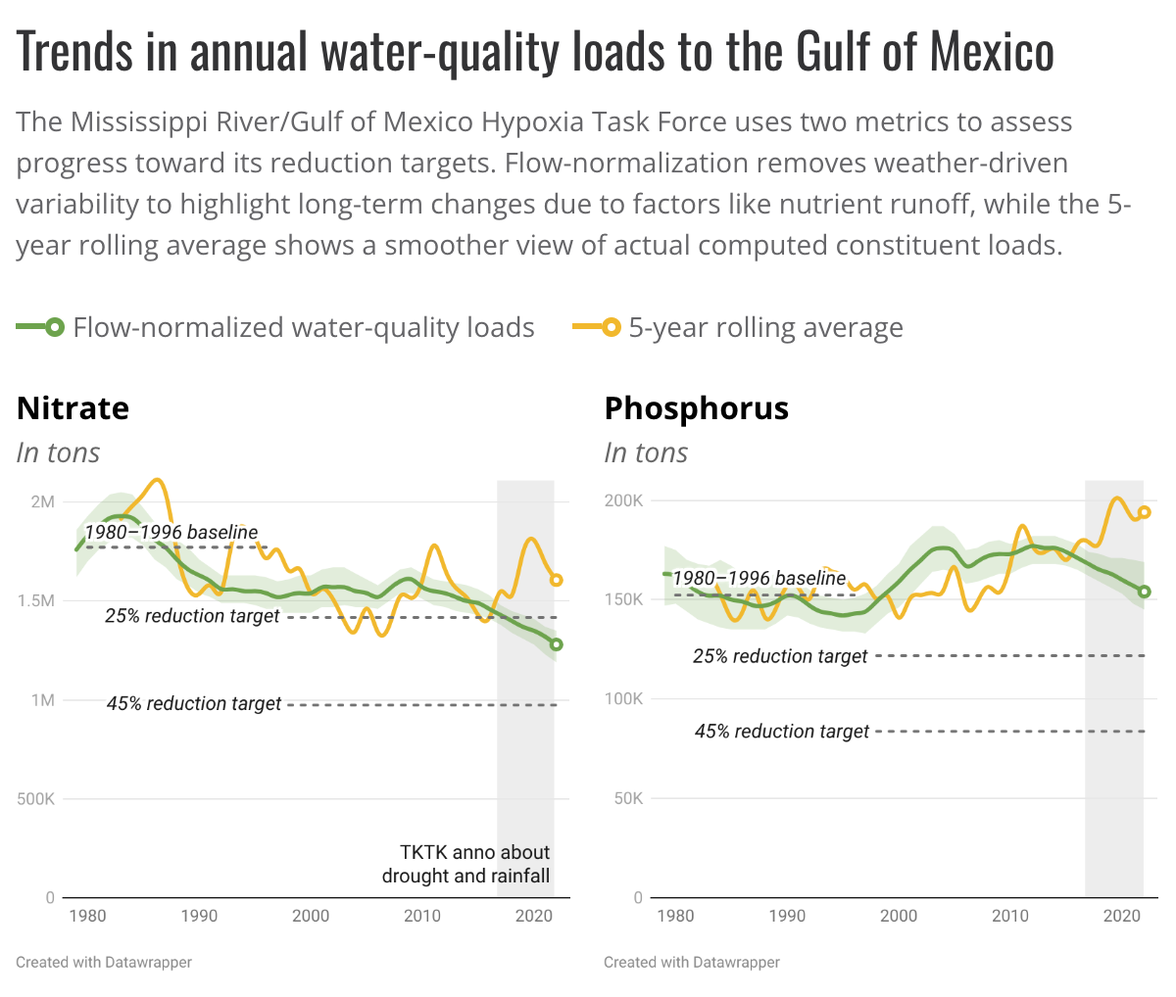
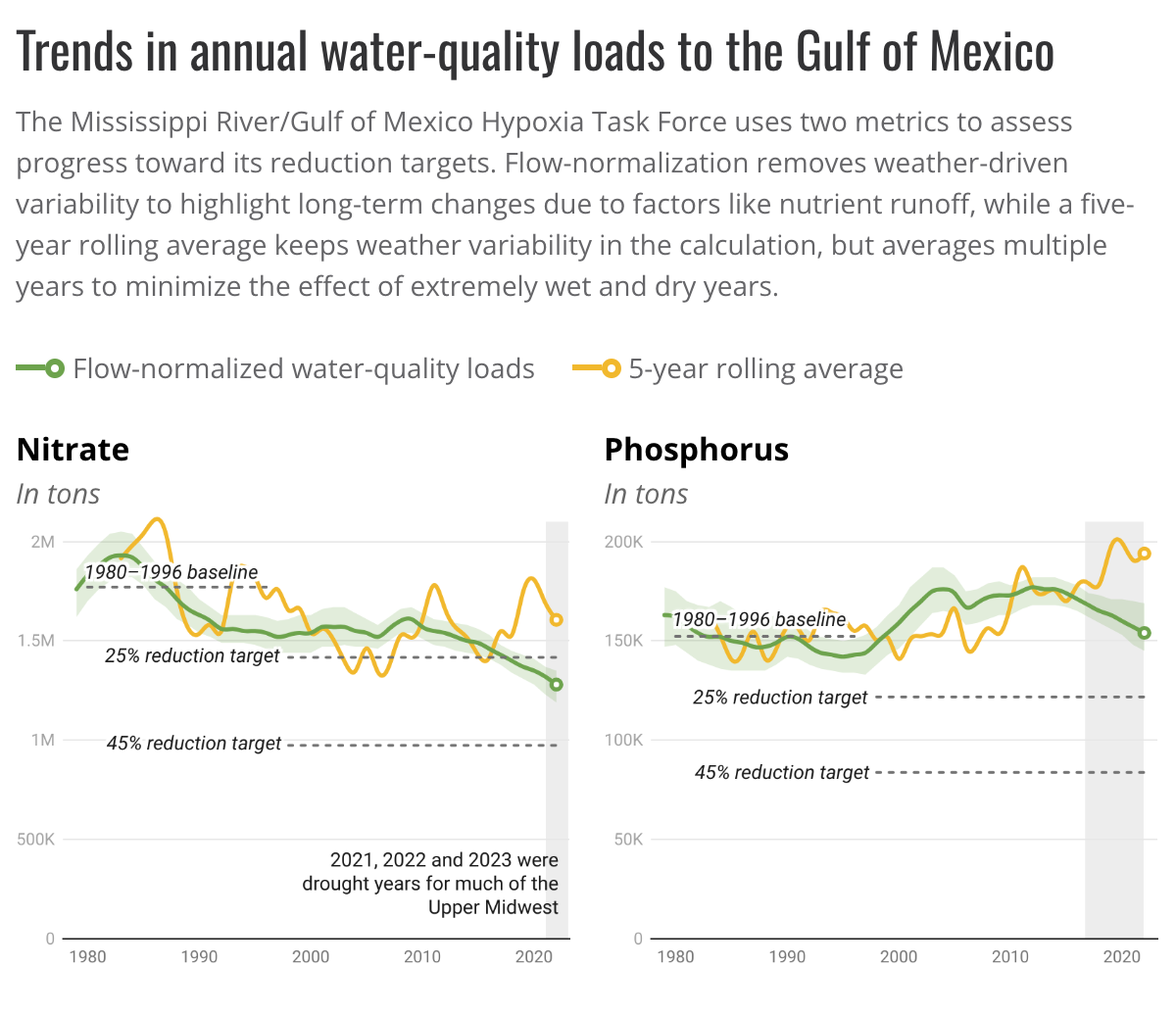
update github pages

diff --git a/docs/assets/bundle.js b/docs/assets/bundle.js
@@ -1,9 +1,10 @@
-(function(){const t=document.createElement("link").relList;if(t&&t.supports&&t.supports("modulepreload"))return;for(const r of document.querySelectorAll('link[rel="modulepreload"]'))s(r);new MutationObserver(r=>{for(const h of r)if(h.type==="childList")for(const g of h.addedNodes)g.tagName==="LINK"&&g.rel==="modulepreload"&&s(g)}).observe(document,{childList:!0,subtree:!0});function n(r){const h={};return r.integrity&&(h.integrity=r.integrity),r.referrerPolicy&&(h.referrerPolicy=r.referrerPolicy),r.crossOrigin==="use-credentials"?h.credentials="include":r.crossOrigin==="anonymous"?h.credentials="omit":h.credentials="same-origin",h}function s(r){if(r.ep)return;r.ep=!0;const h=n(r);fetch(r.href,h)}})();function x(){}function ae(e){return e()}function X(){return Object.create(null)}function R(e){e.forEach(ae)}function F(e){return typeof e=="function"}function Y(e,t){return e!=e?t==t:e!==t||e&&typeof e=="object"||typeof e=="function"}function be(e){return Object.keys(e).length===0}function oe(e,...t){if(e==null)return x;const n=e.subscribe(...t);return n.unsubscribe?()=>n.unsubscribe():n}function Q(e,t,n){e.$$.on_destroy.push(oe(t,n))}function Z(e,t,n){return e.set(n),t}const ve=typeof window<"u"?window:typeof globalThis<"u"?globalThis:global;function T(e,t){e.appendChild(t)}function D(e,t,n){e.insertBefore(t,n||null)}function L(e){e.parentNode&&e.parentNode.removeChild(e)}function C(e){return document.createElement(e)}function we(e){return document.createTextNode(e)}function S(){return we(" ")}function ye(e,t,n,s){return e.addEventListener(t,n,s),()=>e.removeEventListener(t,n,s)}function j(e,t,n){n==null?e.removeAttribute(t):e.getAttribute(t)!==n&&e.setAttribute(t,n)}function _e(e){return Array.from(e.childNodes)}let O;function k(e){O=e}function xe(){if(!O)throw new Error("Function called outside component initialization");return O}function Ie(e){xe().$$.on_mount.push(e)}const A=[],ee=[];let P=[];const te=[],Ee=Promise.resolve();let q=!1;function Te(){q||(q=!0,Ee.then(le))}function G(e){P.push(e)}const z=new Set;let M=0;function le(){if(M!==0)return;const e=O;do{try{for(;M<A.length;){const t=A[M];M++,k(t),Me(t.$$)}}catch(t){throw A.length=0,M=0,t}for(k(null),A.length=0,M=0;ee.length;)ee.pop()();for(let t=0;t<P.length;t+=1){const n=P[t];z.has(n)||(z.add(n),n())}P.length=0}while(A.length);for(;te.length;)te.pop()();q=!1,z.clear(),k(e)}function Me(e){if(e.fragment!==null){e.update(),R(e.before_update);const t=e.dirty;e.dirty=[-1],e.fragment&&e.fragment.p(e.ctx,t),e.after_update.forEach(G)}}function $e(e){const t=[],n=[];P.forEach(s=>e.indexOf(s)===-1?t.push(s):n.push(s)),n.forEach(s=>s()),P=t}const W=new Set;let Ce;function ce(e,t){e&&e.i&&(W.delete(e),e.i(t))}function je(e,t,n,s){if(e&&e.o){if(W.has(e))return;W.add(e),Ce.c.push(()=>{W.delete(e),s&&(n&&e.d(1),s())}),e.o(t)}else s&&s()}function Ae(e){e&&e.c()}function ue(e,t,n,s){const{fragment:r,after_update:h}=e.$$;r&&r.m(t,n),s||G(()=>{const g=e.$$.on_mount.map(ae).filter(F);e.$$.on_destroy?e.$$.on_destroy.push(...g):R(g),e.$$.on_mount=[]}),h.forEach(G)}function de(e,t){const n=e.$$;n.fragment!==null&&($e(n.after_update),R(n.on_destroy),n.fragment&&n.fragment.d(t),n.on_destroy=n.fragment=null,n.ctx=[])}function Pe(e,t){e.$$.dirty[0]===-1&&(A.push(e),Te(),e.$$.dirty.fill(0)),e.$$.dirty[t/31|0]|=1<<t%31}function fe(e,t,n,s,r,h,g,f=[-1]){const m=O;k(e);const c=e.$$={fragment:null,ctx:[],props:h,update:x,not_equal:r,bound:X(),on_mount:[],on_destroy:[],on_disconnect:[],before_update:[],after_update:[],context:new Map(t.context||(m?m.$$.context:[])),callbacks:X(),dirty:f,skip_bound:!1,root:t.target||m.$$.root};g&&g(c.root);let y=!1;if(c.ctx=n?n(e,t.props||{},(w,u,...o)=>{const l=o.length?o[0]:u;return c.ctx&&r(c.ctx[w],c.ctx[w]=l)&&(!c.skip_bound&&c.bound[w]&&c.bound[w](l),y&&Pe(e,w)),u}):[],c.update(),y=!0,R(c.before_update),c.fragment=s?s(c.ctx):!1,t.target){if(t.hydrate){const w=_e(t.target);c.fragment&&c.fragment.l(w),w.forEach(L)}else c.fragment&&c.fragment.c();t.intro&&ce(e.$$.fragment),ue(e,t.target,t.anchor,t.customElement),le()}k(m)}class he{$destroy(){de(this,1),this.$destroy=x}$on(t,n){if(!F(n))return x;const s=this.$$.callbacks[t]||(this.$$.callbacks[t]=[]);return s.push(n),()=>{const r=s.indexOf(n);r!==-1&&s.splice(r,1)}}$set(t){this.$$set&&!be(t)&&(this.$$.skip_bound=!0,this.$$set(t),this.$$.skip_bound=!1)}}var N=typeof globalThis<"u"?globalThis:typeof window<"u"?window:typeof global<"u"?global:typeof self<"u"?self:{};function ge(e){return e&&e.__esModule&&Object.prototype.hasOwnProperty.call(e,"default")?e.default:e}var He="Expected a function",ne=0/0,Se="[object Symbol]",ke=/^\s+|\s+$/g,Oe=/^[-+]0x[0-9a-f]+$/i,Re=/^0b[01]+$/i,Ne=/^0o[0-7]+$/i,We=parseInt,Le=typeof N=="object"&&N&&N.Object===Object&&N,Be=typeof self=="object"&&self&&self.Object===Object&&self,Fe=Le||Be||Function("return this")(),ze=Object.prototype,Ue=ze.toString,De=Math.max,qe=Math.min,U=function(){return Fe.Date.now()};function Ge(e,t,n){var s,r,h,g,f,m,c=0,y=!1,w=!1,u=!0;if(typeof e!="function")throw new TypeError(He);t=ie(t)||0,V(n)&&(y=!!n.leading,w="maxWait"in n,h=w?De(ie(n.maxWait)||0,t):h,u="trailing"in n?!!n.trailing:u);function o(b){var E=s,H=r;return s=r=void 0,c=b,g=e.apply(H,E),g}function l(b){return c=b,f=setTimeout(a,t),y?o(b):g}function p(b){var E=b-m,H=b-c,K=t-E;return w?qe(K,h-H):K}function i(b){var E=b-m,H=b-c;return m===void 0||E>=t||E<0||w&&H>=h}function a(){var b=U();if(i(b))return d(b);f=setTimeout(a,p(b))}function d(b){return f=void 0,u&&s?o(b):(s=r=void 0,g)}function v(){f!==void 0&&clearTimeout(f),c=0,s=m=r=f=void 0}function _(){return f===void 0?g:d(U())}function I(){var b=U(),E=i(b);if(s=arguments,r=this,m=b,E){if(f===void 0)return l(m);if(w)return f=setTimeout(a,t),o(m)}return f===void 0&&(f=setTimeout(a,t)),g}return I.cancel=v,I.flush=_,I}function V(e){var t=typeof e;return!!e&&(t=="object"||t=="function")}function Ve(e){return!!e&&typeof e=="object"}function Ye(e){return typeof e=="symbol"||Ve(e)&&Ue.call(e)==Se}function ie(e){if(typeof e=="number")return e;if(Ye(e))return ne;if(V(e)){var t=typeof e.valueOf=="function"?e.valueOf():e;e=V(t)?t+"":t}if(typeof e!="string")return e===0?e:+e;e=e.replace(ke,"");var n=Re.test(e);return n||Ne.test(e)?We(e.slice(2),n?2:8):Oe.test(e)?ne:+e}var Je=Ge;const se=ge(Je),$=[];function Ke(e,t){return{subscribe:J(e,t).subscribe}}function J(e,t=x){let n;const s=new Set;function r(f){if(Y(e,f)&&(e=f,n)){const m=!$.length;for(const c of s)c[1](),$.push(c,e);if(m){for(let c=0;c<$.length;c+=2)$[c][0]($[c+1]);$.length=0}}}function h(f){r(f(e))}function g(f,m=x){const c=[f,m];return s.add(c),s.size===1&&(n=t(r)||x),f(e),()=>{s.delete(c),s.size===0&&n&&(n(),n=null)}}return{set:r,update:h,subscribe:g}}function me(e,t,n){const s=!Array.isArray(e),r=s?[e]:e,h=t.length<2;return Ke(n,g=>{let f=!1;const m=[];let c=0,y=x;const w=()=>{if(c)return;y();const o=t(s?m[0]:m,g);h?g(o):y=F(o)?o:x},u=r.map((o,l)=>oe(o,p=>{m[l]=p,c&=~(1<<l),f&&w()},()=>{c|=1<<l}));return f=!0,w(),function(){R(u),y(),f=!1}})}const B=J(window.innerWidth),re=J(window.innerHeight);me(B,e=>e<=560);me(B,e=>e>1200);const{window:Xe}=ve;function Qe(e){let t,n;return{c:x,m(s,r){t||(n=ye(Xe,"resize",function(){F(se(e[1],e[0]))&&se(e[1],e[0]).apply(this,arguments)}),t=!0)},p(s,[r]){e=s},i:x,o:x,d(s){t=!1,n()}}}function Ze(e,t,n){let s,r;Q(e,re,f=>n(2,s=f)),Q(e,B,f=>n(3,r=f));let{debounceDur:h=100}=t;const g=()=>{Z(B,r=window.innerWidth,r),Z(re,s=window.innerHeight,s)};return Ie(()=>{g()}),e.$$set=f=>{"debounceDur"in f&&n(0,h=f.debounceDur)},[h,g]}class et extends he{constructor(t){super(),fe(this,t,Ze,Qe,Y,{debounceDur:0})}}var pe={exports:{}};/*! pym.js - v1.3.2 - 2018-02-13 */(function(e){(function(t){e.exports?e.exports=t():window.pym=t.call(this)})(function(){var t="xPYMx",n={},s=function(u){var o=document.createEvent("Event");o.initEvent("pym:"+u,!0,!0),document.dispatchEvent(o)},r=function(u){var o=new RegExp("[\\?&]"+u.replace(/[\[]/,"\\[").replace(/[\]]/,"\\]")+"=([^&#]*)"),l=o.exec(location.search);return l===null?"":decodeURIComponent(l[1].replace(/\+/g," "))},h=function(u,o){if(!(o.xdomain!=="*"&&!u.origin.match(new RegExp(o.xdomain+"$")))&&typeof u.data=="string")return!0},g=function(u){var o=/^(?:(?:https?|mailto|ftp):|[^&:/?#]*(?:[/?#]|$))/gi;if(u.match(o))return!0},f=function(u,o,l){var p=["pym",u,o,l];return p.join(t)},m=function(u){var o=["pym",u,"(\\S+)","(.*)"];return new RegExp("^"+o.join(t)+"$")},c=Date.now||function(){return new Date().getTime()},y=function(u,o,l){var p,i,a,d=null,v=0;l||(l={});var _=function(){v=l.leading===!1?0:c(),d=null,a=u.apply(p,i),d||(p=i=null)};return function(){var I=c();!v&&l.leading===!1&&(v=I);var b=o-(I-v);return p=this,i=arguments,b<=0||b>o?(d&&(clearTimeout(d),d=null),v=I,a=u.apply(p,i),d||(p=i=null)):!d&&l.trailing!==!1&&(d=setTimeout(_,b)),a}},w=function(){for(var u=n.autoInitInstances.length,o=u-1;o>=0;o--){var l=n.autoInitInstances[o];l.el.getElementsByTagName("iframe").length&&l.el.getElementsByTagName("iframe")[0].contentWindow||n.autoInitInstances.splice(o,1)}};return n.autoInitInstances=[],n.autoInit=function(u){var o=document.querySelectorAll("[data-pym-src]:not([data-pym-auto-initialized])"),l=o.length;w();for(var p=0;p<l;++p){var i=o[p];i.setAttribute("data-pym-auto-initialized",""),i.id===""&&(i.id="pym-"+p+"-"+Math.random().toString(36).substr(2,5));var a=i.getAttribute("data-pym-src"),d={xdomain:"string",title:"string",name:"string",id:"string",sandbox:"string",allowfullscreen:"boolean",parenturlparam:"string",parenturlvalue:"string",optionalparams:"boolean",trackscroll:"boolean",scrollwait:"number"},v={};for(var _ in d)if(i.getAttribute("data-pym-"+_)!==null)switch(d[_]){case"boolean":v[_]=i.getAttribute("data-pym-"+_)!=="false";break;case"string":v[_]=i.getAttribute("data-pym-"+_);break;case"number":var I=Number(i.getAttribute("data-pym-"+_));isNaN(I)||(v[_]=I);break;default:console.err("unrecognized attribute type")}var b=new n.Parent(i.id,a,v);n.autoInitInstances.push(b)}return u||s("pym-initialized"),n.autoInitInstances},n.Parent=function(u,o,l){this.id=u,this.url=o,this.el=document.getElementById(u),this.iframe=null,this.settings={xdomain:"*",optionalparams:!0,parenturlparam:"parentUrl",parenturlvalue:window.location.href,trackscroll:!1,scrollwait:100},this.messageRegex=m(this.id),this.messageHandlers={},l=l||{},this._constructIframe=function(){var i=this.el.offsetWidth.toString();this.iframe=document.createElement("iframe");var a="",d=this.url.indexOf("#");for(d>-1&&(a=this.url.substring(d,this.url.length),this.url=this.url.substring(0,d)),this.url.indexOf("?")<0?this.url+="?":this.url+="&",this.iframe.src=this.url+"initialWidth="+i+"&childId="+this.id,this.settings.optionalparams&&(this.iframe.src+="&parentTitle="+encodeURIComponent(document.title),this.iframe.src+="&"+this.settings.parenturlparam+"="+encodeURIComponent(this.settings.parenturlvalue)),this.iframe.src+=a,this.iframe.setAttribute("width","100%"),this.iframe.setAttribute("scrolling","no"),this.iframe.setAttribute("marginheight","0"),this.iframe.setAttribute("frameborder","0"),this.settings.title&&this.iframe.setAttribute("title",this.settings.title),this.settings.allowfullscreen!==void 0&&this.settings.allowfullscreen!==!1&&this.iframe.setAttribute("allowfullscreen",""),this.settings.sandbox!==void 0&&typeof this.settings.sandbox=="string"&&this.iframe.setAttribute("sandbox",this.settings.sandbox),this.settings.id&&(document.getElementById(this.settings.id)||this.iframe.setAttribute("id",this.settings.id)),this.settings.name&&this.iframe.setAttribute("name",this.settings.name);this.el.firstChild;)this.el.removeChild(this.el.firstChild);this.el.appendChild(this.iframe),window.addEventListener("resize",this._onResize),this.settings.trackscroll&&window.addEventListener("scroll",this._throttleOnScroll)},this._onResize=(function(){this.sendWidth(),this.settings.trackscroll&&this.sendViewportAndIFramePosition()}).bind(this),this._onScroll=(function(){this.sendViewportAndIFramePosition()}).bind(this),this._fire=function(i,a){if(i in this.messageHandlers)for(var d=0;d<this.messageHandlers[i].length;d++)this.messageHandlers[i][d].call(this,a)},this.remove=function(){window.removeEventListener("message",this._processMessage),window.removeEventListener("resize",this._onResize),this.el.removeChild(this.iframe),w()},this._processMessage=(function(i){if(h(i,this.settings)&&typeof i.data=="string"){var a=i.data.match(this.messageRegex);if(!a||a.length!==3)return!1;var d=a[1],v=a[2];this._fire(d,v)}}).bind(this),this._onHeightMessage=function(i){var a=parseInt(i);this.iframe.setAttribute("height",a+"px")},this._onNavigateToMessage=function(i){g(i)&&(document.location.href=i)},this._onScrollToChildPosMessage=function(i){var a=document.getElementById(this.id).getBoundingClientRect().top+window.pageYOffset,d=a+parseInt(i);window.scrollTo(0,d)},this.onMessage=function(i,a){i in this.messageHandlers||(this.messageHandlers[i]=[]),this.messageHandlers[i].push(a)},this.sendMessage=function(i,a){this.el.getElementsByTagName("iframe").length&&(this.el.getElementsByTagName("iframe")[0].contentWindow?this.el.getElementsByTagName("iframe")[0].contentWindow.postMessage(f(this.id,i,a),"*"):this.remove())},this.sendWidth=function(){var i=this.el.offsetWidth.toString();this.sendMessage("width",i)},this.sendViewportAndIFramePosition=function(){var i=this.iframe.getBoundingClientRect(),a=window.innerWidth||document.documentElement.clientWidth,d=window.innerHeight||document.documentElement.clientHeight,v=a+" "+d;v+=" "+i.top+" "+i.left,v+=" "+i.bottom+" "+i.right,this.sendMessage("viewport-iframe-position",v)};for(var p in l)this.settings[p]=l[p];return this._throttleOnScroll=y(this._onScroll.bind(this),this.settings.scrollwait),this.onMessage("height",this._onHeightMessage),this.onMessage("navigateTo",this._onNavigateToMessage),this.onMessage("scrollToChildPos",this._onScrollToChildPosMessage),this.onMessage("parentPositionInfo",this.sendViewportAndIFramePosition),window.addEventListener("message",this._processMessage,!1),this._constructIframe(),this},n.Child=function(u){this.parentWidth=null,this.id=null,this.parentTitle=null,this.parentUrl=null,this.settings={renderCallback:null,xdomain:"*",polling:0,parenturlparam:"parentUrl"},this.timerId=null,this.messageRegex=null,this.messageHandlers={},u=u||{},this.onMessage=function(i,a){i in this.messageHandlers||(this.messageHandlers[i]=[]),this.messageHandlers[i].push(a)},this._fire=function(i,a){if(i in this.messageHandlers)for(var d=0;d<this.messageHandlers[i].length;d++)this.messageHandlers[i][d].call(this,a)},this._processMessage=(function(i){if(h(i,this.settings)&&typeof i.data=="string"){var a=i.data.match(this.messageRegex);if(!(!a||a.length!==3)){var d=a[1],v=a[2];this._fire(d,v)}}}).bind(this),this._onWidthMessage=function(i){var a=parseInt(i);a!==this.parentWidth&&(this.parentWidth=a,this.settings.renderCallback&&this.settings.renderCallback(a),this.sendHeight())},this.sendMessage=function(i,a){window.parent.postMessage(f(this.id,i,a),"*")},this.sendHeight=(function(){var i=document.getElementsByTagName("body")[0].offsetHeight.toString();return this.sendMessage("height",i),i}).bind(this),this.getParentPositionInfo=function(){this.sendMessage("parentPositionInfo")},this.scrollParentTo=function(i){this.sendMessage("navigateTo","#"+i)},this.navigateParentTo=function(i){this.sendMessage("navigateTo",i)},this.scrollParentToChildEl=function(i){var a=document.getElementById(i).getBoundingClientRect().top+window.pageYOffset;this.scrollParentToChildPos(a)},this.scrollParentToChildPos=function(i){this.sendMessage("scrollToChildPos",i.toString())};var o=function(i){var a=document.getElementsByTagName("html")[0],d,v=a.className;try{window.self!==window.top?d="embedded":d="not-embedded"}catch{d="embedded"}v.indexOf(d)<0&&(a.className=v?v+" "+d:d,i&&i(d),s("marked-embedded"))};this.remove=function(){window.removeEventListener("message",this._processMessage),this.timerId&&clearInterval(this.timerId)};for(var l in u)this.settings[l]=u[l];this.id=r("childId")||u.id,this.messageRegex=new RegExp("^pym"+t+this.id+t+"(\\S+)"+t+"(.*)$");var p=parseInt(r("initialWidth"));return this.parentUrl=r(this.settings.parenturlparam),this.parentTitle=r("parentTitle"),this.onMessage("width",this._onWidthMessage),window.addEventListener("message",this._processMessage,!1),this.settings.renderCallback&&this.settings.renderCallback(p),this.sendHeight(),this.settings.polling&&(this.timerId=window.setInterval(this.sendHeight,this.settings.polling)),o(u.onMarkedEmbeddedStatus),this},typeof document<"u"&&n.autoInit(!0),n})})(pe);var tt=pe.exports;const nt=ge(tt);function it(e){let t;return{c(){t=C("div"),t.innerHTML=`Data: <a target="_blank" href="https://nrtwq.usgs.gov/nwqn/#/GULF">USGS</a>; Graphic by Jared Whalen /
-      <a target="_blank" href="https://agwaterdesk.org/">Ag &amp; Water Desk</a>`,j(t,"class","credit")},m(n,s){D(n,t,s)},d(n){n&&L(t)}}}function st(e){let t,n,s,r,h,g,f,m,c,y,w,u;t=new et({});let o=e[0]&&it();return{c(){Ae(t.$$.fragment),n=S(),s=C("div"),r=C("h1"),r.textContent="Trends in annual water-quality loads to the Gulf of Mexico",h=S(),g=C("p"),g.innerHTML=`The Mississippi River/Gulf of Mexico Hypoxia Task Force uses two metrics to
+(function(){const t=document.createElement("link").relList;if(t&&t.supports&&t.supports("modulepreload"))return;for(const r of document.querySelectorAll('link[rel="modulepreload"]'))s(r);new MutationObserver(r=>{for(const h of r)if(h.type==="childList")for(const g of h.addedNodes)g.tagName==="LINK"&&g.rel==="modulepreload"&&s(g)}).observe(document,{childList:!0,subtree:!0});function n(r){const h={};return r.integrity&&(h.integrity=r.integrity),r.referrerPolicy&&(h.referrerPolicy=r.referrerPolicy),r.crossOrigin==="use-credentials"?h.credentials="include":r.crossOrigin==="anonymous"?h.credentials="omit":h.credentials="same-origin",h}function s(r){if(r.ep)return;r.ep=!0;const h=n(r);fetch(r.href,h)}})();function x(){}function ae(e){return e()}function X(){return Object.create(null)}function R(e){e.forEach(ae)}function z(e){return typeof e=="function"}function Y(e,t){return e!=e?t==t:e!==t||e&&typeof e=="object"||typeof e=="function"}function be(e){return Object.keys(e).length===0}function oe(e,...t){if(e==null)return x;const n=e.subscribe(...t);return n.unsubscribe?()=>n.unsubscribe():n}function Q(e,t,n){e.$$.on_destroy.push(oe(t,n))}function Z(e,t,n){return e.set(n),t}const ve=typeof window<"u"?window:typeof globalThis<"u"?globalThis:global;function T(e,t){e.appendChild(t)}function D(e,t,n){e.insertBefore(t,n||null)}function L(e){e.parentNode&&e.parentNode.removeChild(e)}function C(e){return document.createElement(e)}function we(e){return document.createTextNode(e)}function H(){return we(" ")}function ye(e,t,n,s){return e.addEventListener(t,n,s),()=>e.removeEventListener(t,n,s)}function j(e,t,n){n==null?e.removeAttribute(t):e.getAttribute(t)!==n&&e.setAttribute(t,n)}function _e(e){return Array.from(e.childNodes)}let O;function S(e){O=e}function xe(){if(!O)throw new Error("Function called outside component initialization");return O}function Ie(e){xe().$$.on_mount.push(e)}const A=[],ee=[];let P=[];const te=[],Ee=Promise.resolve();let q=!1;function Te(){q||(q=!0,Ee.then(le))}function G(e){P.push(e)}const F=new Set;let M=0;function le(){if(M!==0)return;const e=O;do{try{for(;M<A.length;){const t=A[M];M++,S(t),Me(t.$$)}}catch(t){throw A.length=0,M=0,t}for(S(null),A.length=0,M=0;ee.length;)ee.pop()();for(let t=0;t<P.length;t+=1){const n=P[t];F.has(n)||(F.add(n),n())}P.length=0}while(A.length);for(;te.length;)te.pop()();q=!1,F.clear(),S(e)}function Me(e){if(e.fragment!==null){e.update(),R(e.before_update);const t=e.dirty;e.dirty=[-1],e.fragment&&e.fragment.p(e.ctx,t),e.after_update.forEach(G)}}function $e(e){const t=[],n=[];P.forEach(s=>e.indexOf(s)===-1?t.push(s):n.push(s)),n.forEach(s=>s()),P=t}const W=new Set;let Ce;function ce(e,t){e&&e.i&&(W.delete(e),e.i(t))}function je(e,t,n,s){if(e&&e.o){if(W.has(e))return;W.add(e),Ce.c.push(()=>{W.delete(e),s&&(n&&e.d(1),s())}),e.o(t)}else s&&s()}function Ae(e){e&&e.c()}function ue(e,t,n,s){const{fragment:r,after_update:h}=e.$$;r&&r.m(t,n),s||G(()=>{const g=e.$$.on_mount.map(ae).filter(z);e.$$.on_destroy?e.$$.on_destroy.push(...g):R(g),e.$$.on_mount=[]}),h.forEach(G)}function de(e,t){const n=e.$$;n.fragment!==null&&($e(n.after_update),R(n.on_destroy),n.fragment&&n.fragment.d(t),n.on_destroy=n.fragment=null,n.ctx=[])}function Pe(e,t){e.$$.dirty[0]===-1&&(A.push(e),Te(),e.$$.dirty.fill(0)),e.$$.dirty[t/31|0]|=1<<t%31}function fe(e,t,n,s,r,h,g,f=[-1]){const m=O;S(e);const c=e.$$={fragment:null,ctx:[],props:h,update:x,not_equal:r,bound:X(),on_mount:[],on_destroy:[],on_disconnect:[],before_update:[],after_update:[],context:new Map(t.context||(m?m.$$.context:[])),callbacks:X(),dirty:f,skip_bound:!1,root:t.target||m.$$.root};g&&g(c.root);let y=!1;if(c.ctx=n?n(e,t.props||{},(w,u,...o)=>{const l=o.length?o[0]:u;return c.ctx&&r(c.ctx[w],c.ctx[w]=l)&&(!c.skip_bound&&c.bound[w]&&c.bound[w](l),y&&Pe(e,w)),u}):[],c.update(),y=!0,R(c.before_update),c.fragment=s?s(c.ctx):!1,t.target){if(t.hydrate){const w=_e(t.target);c.fragment&&c.fragment.l(w),w.forEach(L)}else c.fragment&&c.fragment.c();t.intro&&ce(e.$$.fragment),ue(e,t.target,t.anchor,t.customElement),le()}S(m)}class he{$destroy(){de(this,1),this.$destroy=x}$on(t,n){if(!z(n))return x;const s=this.$$.callbacks[t]||(this.$$.callbacks[t]=[]);return s.push(n),()=>{const r=s.indexOf(n);r!==-1&&s.splice(r,1)}}$set(t){this.$$set&&!be(t)&&(this.$$.skip_bound=!0,this.$$set(t),this.$$.skip_bound=!1)}}var N=typeof globalThis<"u"?globalThis:typeof window<"u"?window:typeof global<"u"?global:typeof self<"u"?self:{};function ge(e){return e&&e.__esModule&&Object.prototype.hasOwnProperty.call(e,"default")?e.default:e}var ke="Expected a function",ne=0/0,He="[object Symbol]",Se=/^\s+|\s+$/g,Oe=/^[-+]0x[0-9a-f]+$/i,Re=/^0b[01]+$/i,Ne=/^0o[0-7]+$/i,We=parseInt,Le=typeof N=="object"&&N&&N.Object===Object&&N,Be=typeof self=="object"&&self&&self.Object===Object&&self,ze=Le||Be||Function("return this")(),Fe=Object.prototype,Ue=Fe.toString,De=Math.max,qe=Math.min,U=function(){return ze.Date.now()};function Ge(e,t,n){var s,r,h,g,f,m,c=0,y=!1,w=!1,u=!0;if(typeof e!="function")throw new TypeError(ke);t=ie(t)||0,V(n)&&(y=!!n.leading,w="maxWait"in n,h=w?De(ie(n.maxWait)||0,t):h,u="trailing"in n?!!n.trailing:u);function o(b){var E=s,k=r;return s=r=void 0,c=b,g=e.apply(k,E),g}function l(b){return c=b,f=setTimeout(a,t),y?o(b):g}function p(b){var E=b-m,k=b-c,K=t-E;return w?qe(K,h-k):K}function i(b){var E=b-m,k=b-c;return m===void 0||E>=t||E<0||w&&k>=h}function a(){var b=U();if(i(b))return d(b);f=setTimeout(a,p(b))}function d(b){return f=void 0,u&&s?o(b):(s=r=void 0,g)}function v(){f!==void 0&&clearTimeout(f),c=0,s=m=r=f=void 0}function _(){return f===void 0?g:d(U())}function I(){var b=U(),E=i(b);if(s=arguments,r=this,m=b,E){if(f===void 0)return l(m);if(w)return f=setTimeout(a,t),o(m)}return f===void 0&&(f=setTimeout(a,t)),g}return I.cancel=v,I.flush=_,I}function V(e){var t=typeof e;return!!e&&(t=="object"||t=="function")}function Ve(e){return!!e&&typeof e=="object"}function Ye(e){return typeof e=="symbol"||Ve(e)&&Ue.call(e)==He}function ie(e){if(typeof e=="number")return e;if(Ye(e))return ne;if(V(e)){var t=typeof e.valueOf=="function"?e.valueOf():e;e=V(t)?t+"":t}if(typeof e!="string")return e===0?e:+e;e=e.replace(Se,"");var n=Re.test(e);return n||Ne.test(e)?We(e.slice(2),n?2:8):Oe.test(e)?ne:+e}var Je=Ge;const se=ge(Je),$=[];function Ke(e,t){return{subscribe:J(e,t).subscribe}}function J(e,t=x){let n;const s=new Set;function r(f){if(Y(e,f)&&(e=f,n)){const m=!$.length;for(const c of s)c[1](),$.push(c,e);if(m){for(let c=0;c<$.length;c+=2)$[c][0]($[c+1]);$.length=0}}}function h(f){r(f(e))}function g(f,m=x){const c=[f,m];return s.add(c),s.size===1&&(n=t(r)||x),f(e),()=>{s.delete(c),s.size===0&&n&&(n(),n=null)}}return{set:r,update:h,subscribe:g}}function me(e,t,n){const s=!Array.isArray(e),r=s?[e]:e,h=t.length<2;return Ke(n,g=>{let f=!1;const m=[];let c=0,y=x;const w=()=>{if(c)return;y();const o=t(s?m[0]:m,g);h?g(o):y=z(o)?o:x},u=r.map((o,l)=>oe(o,p=>{m[l]=p,c&=~(1<<l),f&&w()},()=>{c|=1<<l}));return f=!0,w(),function(){R(u),y(),f=!1}})}const B=J(window.innerWidth),re=J(window.innerHeight);me(B,e=>e<=560);me(B,e=>e>1200);const{window:Xe}=ve;function Qe(e){let t,n;return{c:x,m(s,r){t||(n=ye(Xe,"resize",function(){z(se(e[1],e[0]))&&se(e[1],e[0]).apply(this,arguments)}),t=!0)},p(s,[r]){e=s},i:x,o:x,d(s){t=!1,n()}}}function Ze(e,t,n){let s,r;Q(e,re,f=>n(2,s=f)),Q(e,B,f=>n(3,r=f));let{debounceDur:h=100}=t;const g=()=>{Z(B,r=window.innerWidth,r),Z(re,s=window.innerHeight,s)};return Ie(()=>{g()}),e.$$set=f=>{"debounceDur"in f&&n(0,h=f.debounceDur)},[h,g]}class et extends he{constructor(t){super(),fe(this,t,Ze,Qe,Y,{debounceDur:0})}}var pe={exports:{}};/*! pym.js - v1.3.2 - 2018-02-13 */(function(e){(function(t){e.exports?e.exports=t():window.pym=t.call(this)})(function(){var t="xPYMx",n={},s=function(u){var o=document.createEvent("Event");o.initEvent("pym:"+u,!0,!0),document.dispatchEvent(o)},r=function(u){var o=new RegExp("[\\?&]"+u.replace(/[\[]/,"\\[").replace(/[\]]/,"\\]")+"=([^&#]*)"),l=o.exec(location.search);return l===null?"":decodeURIComponent(l[1].replace(/\+/g," "))},h=function(u,o){if(!(o.xdomain!=="*"&&!u.origin.match(new RegExp(o.xdomain+"$")))&&typeof u.data=="string")return!0},g=function(u){var o=/^(?:(?:https?|mailto|ftp):|[^&:/?#]*(?:[/?#]|$))/gi;if(u.match(o))return!0},f=function(u,o,l){var p=["pym",u,o,l];return p.join(t)},m=function(u){var o=["pym",u,"(\\S+)","(.*)"];return new RegExp("^"+o.join(t)+"$")},c=Date.now||function(){return new Date().getTime()},y=function(u,o,l){var p,i,a,d=null,v=0;l||(l={});var _=function(){v=l.leading===!1?0:c(),d=null,a=u.apply(p,i),d||(p=i=null)};return function(){var I=c();!v&&l.leading===!1&&(v=I);var b=o-(I-v);return p=this,i=arguments,b<=0||b>o?(d&&(clearTimeout(d),d=null),v=I,a=u.apply(p,i),d||(p=i=null)):!d&&l.trailing!==!1&&(d=setTimeout(_,b)),a}},w=function(){for(var u=n.autoInitInstances.length,o=u-1;o>=0;o--){var l=n.autoInitInstances[o];l.el.getElementsByTagName("iframe").length&&l.el.getElementsByTagName("iframe")[0].contentWindow||n.autoInitInstances.splice(o,1)}};return n.autoInitInstances=[],n.autoInit=function(u){var o=document.querySelectorAll("[data-pym-src]:not([data-pym-auto-initialized])"),l=o.length;w();for(var p=0;p<l;++p){var i=o[p];i.setAttribute("data-pym-auto-initialized",""),i.id===""&&(i.id="pym-"+p+"-"+Math.random().toString(36).substr(2,5));var a=i.getAttribute("data-pym-src"),d={xdomain:"string",title:"string",name:"string",id:"string",sandbox:"string",allowfullscreen:"boolean",parenturlparam:"string",parenturlvalue:"string",optionalparams:"boolean",trackscroll:"boolean",scrollwait:"number"},v={};for(var _ in d)if(i.getAttribute("data-pym-"+_)!==null)switch(d[_]){case"boolean":v[_]=i.getAttribute("data-pym-"+_)!=="false";break;case"string":v[_]=i.getAttribute("data-pym-"+_);break;case"number":var I=Number(i.getAttribute("data-pym-"+_));isNaN(I)||(v[_]=I);break;default:console.err("unrecognized attribute type")}var b=new n.Parent(i.id,a,v);n.autoInitInstances.push(b)}return u||s("pym-initialized"),n.autoInitInstances},n.Parent=function(u,o,l){this.id=u,this.url=o,this.el=document.getElementById(u),this.iframe=null,this.settings={xdomain:"*",optionalparams:!0,parenturlparam:"parentUrl",parenturlvalue:window.location.href,trackscroll:!1,scrollwait:100},this.messageRegex=m(this.id),this.messageHandlers={},l=l||{},this._constructIframe=function(){var i=this.el.offsetWidth.toString();this.iframe=document.createElement("iframe");var a="",d=this.url.indexOf("#");for(d>-1&&(a=this.url.substring(d,this.url.length),this.url=this.url.substring(0,d)),this.url.indexOf("?")<0?this.url+="?":this.url+="&",this.iframe.src=this.url+"initialWidth="+i+"&childId="+this.id,this.settings.optionalparams&&(this.iframe.src+="&parentTitle="+encodeURIComponent(document.title),this.iframe.src+="&"+this.settings.parenturlparam+"="+encodeURIComponent(this.settings.parenturlvalue)),this.iframe.src+=a,this.iframe.setAttribute("width","100%"),this.iframe.setAttribute("scrolling","no"),this.iframe.setAttribute("marginheight","0"),this.iframe.setAttribute("frameborder","0"),this.settings.title&&this.iframe.setAttribute("title",this.settings.title),this.settings.allowfullscreen!==void 0&&this.settings.allowfullscreen!==!1&&this.iframe.setAttribute("allowfullscreen",""),this.settings.sandbox!==void 0&&typeof this.settings.sandbox=="string"&&this.iframe.setAttribute("sandbox",this.settings.sandbox),this.settings.id&&(document.getElementById(this.settings.id)||this.iframe.setAttribute("id",this.settings.id)),this.settings.name&&this.iframe.setAttribute("name",this.settings.name);this.el.firstChild;)this.el.removeChild(this.el.firstChild);this.el.appendChild(this.iframe),window.addEventListener("resize",this._onResize),this.settings.trackscroll&&window.addEventListener("scroll",this._throttleOnScroll)},this._onResize=(function(){this.sendWidth(),this.settings.trackscroll&&this.sendViewportAndIFramePosition()}).bind(this),this._onScroll=(function(){this.sendViewportAndIFramePosition()}).bind(this),this._fire=function(i,a){if(i in this.messageHandlers)for(var d=0;d<this.messageHandlers[i].length;d++)this.messageHandlers[i][d].call(this,a)},this.remove=function(){window.removeEventListener("message",this._processMessage),window.removeEventListener("resize",this._onResize),this.el.removeChild(this.iframe),w()},this._processMessage=(function(i){if(h(i,this.settings)&&typeof i.data=="string"){var a=i.data.match(this.messageRegex);if(!a||a.length!==3)return!1;var d=a[1],v=a[2];this._fire(d,v)}}).bind(this),this._onHeightMessage=function(i){var a=parseInt(i);this.iframe.setAttribute("height",a+"px")},this._onNavigateToMessage=function(i){g(i)&&(document.location.href=i)},this._onScrollToChildPosMessage=function(i){var a=document.getElementById(this.id).getBoundingClientRect().top+window.pageYOffset,d=a+parseInt(i);window.scrollTo(0,d)},this.onMessage=function(i,a){i in this.messageHandlers||(this.messageHandlers[i]=[]),this.messageHandlers[i].push(a)},this.sendMessage=function(i,a){this.el.getElementsByTagName("iframe").length&&(this.el.getElementsByTagName("iframe")[0].contentWindow?this.el.getElementsByTagName("iframe")[0].contentWindow.postMessage(f(this.id,i,a),"*"):this.remove())},this.sendWidth=function(){var i=this.el.offsetWidth.toString();this.sendMessage("width",i)},this.sendViewportAndIFramePosition=function(){var i=this.iframe.getBoundingClientRect(),a=window.innerWidth||document.documentElement.clientWidth,d=window.innerHeight||document.documentElement.clientHeight,v=a+" "+d;v+=" "+i.top+" "+i.left,v+=" "+i.bottom+" "+i.right,this.sendMessage("viewport-iframe-position",v)};for(var p in l)this.settings[p]=l[p];return this._throttleOnScroll=y(this._onScroll.bind(this),this.settings.scrollwait),this.onMessage("height",this._onHeightMessage),this.onMessage("navigateTo",this._onNavigateToMessage),this.onMessage("scrollToChildPos",this._onScrollToChildPosMessage),this.onMessage("parentPositionInfo",this.sendViewportAndIFramePosition),window.addEventListener("message",this._processMessage,!1),this._constructIframe(),this},n.Child=function(u){this.parentWidth=null,this.id=null,this.parentTitle=null,this.parentUrl=null,this.settings={renderCallback:null,xdomain:"*",polling:0,parenturlparam:"parentUrl"},this.timerId=null,this.messageRegex=null,this.messageHandlers={},u=u||{},this.onMessage=function(i,a){i in this.messageHandlers||(this.messageHandlers[i]=[]),this.messageHandlers[i].push(a)},this._fire=function(i,a){if(i in this.messageHandlers)for(var d=0;d<this.messageHandlers[i].length;d++)this.messageHandlers[i][d].call(this,a)},this._processMessage=(function(i){if(h(i,this.settings)&&typeof i.data=="string"){var a=i.data.match(this.messageRegex);if(!(!a||a.length!==3)){var d=a[1],v=a[2];this._fire(d,v)}}}).bind(this),this._onWidthMessage=function(i){var a=parseInt(i);a!==this.parentWidth&&(this.parentWidth=a,this.settings.renderCallback&&this.settings.renderCallback(a),this.sendHeight())},this.sendMessage=function(i,a){window.parent.postMessage(f(this.id,i,a),"*")},this.sendHeight=(function(){var i=document.getElementsByTagName("body")[0].offsetHeight.toString();return this.sendMessage("height",i),i}).bind(this),this.getParentPositionInfo=function(){this.sendMessage("parentPositionInfo")},this.scrollParentTo=function(i){this.sendMessage("navigateTo","#"+i)},this.navigateParentTo=function(i){this.sendMessage("navigateTo",i)},this.scrollParentToChildEl=function(i){var a=document.getElementById(i).getBoundingClientRect().top+window.pageYOffset;this.scrollParentToChildPos(a)},this.scrollParentToChildPos=function(i){this.sendMessage("scrollToChildPos",i.toString())};var o=function(i){var a=document.getElementsByTagName("html")[0],d,v=a.className;try{window.self!==window.top?d="embedded":d="not-embedded"}catch{d="embedded"}v.indexOf(d)<0&&(a.className=v?v+" "+d:d,i&&i(d),s("marked-embedded"))};this.remove=function(){window.removeEventListener("message",this._processMessage),this.timerId&&clearInterval(this.timerId)};for(var l in u)this.settings[l]=u[l];this.id=r("childId")||u.id,this.messageRegex=new RegExp("^pym"+t+this.id+t+"(\\S+)"+t+"(.*)$");var p=parseInt(r("initialWidth"));return this.parentUrl=r(this.settings.parenturlparam),this.parentTitle=r("parentTitle"),this.onMessage("width",this._onWidthMessage),window.addEventListener("message",this._processMessage,!1),this.settings.renderCallback&&this.settings.renderCallback(p),this.sendHeight(),this.settings.polling&&(this.timerId=window.setInterval(this.sendHeight,this.settings.polling)),o(u.onMarkedEmbeddedStatus),this},typeof document<"u"&&n.autoInit(!0),n})})(pe);var tt=pe.exports;const nt=ge(tt);function it(e){let t;return{c(){t=C("div"),t.innerHTML=`Data: <a target="_blank" href="https://nrtwq.usgs.gov/nwqn/#/GULF">USGS</a>; Graphic by Jared Whalen /
+      <a target="_blank" href="https://agwaterdesk.org/">Ag &amp; Water Desk</a>`,j(t,"class","credit")},m(n,s){D(n,t,s)},d(n){n&&L(t)}}}function st(e){let t,n,s,r,h,g,f,m,c,y,w,u;t=new et({});let o=e[0]&&it();return{c(){Ae(t.$$.fragment),n=H(),s=C("div"),r=C("h1"),r.textContent="Trends in annual water-quality loads to the Gulf of Mexico",h=H(),g=C("p"),g.innerHTML=`The Mississippi River/Gulf of Mexico Hypoxia Task Force uses two metrics to
     assess progress toward its reduction targets. Flow-normalization removes
     weather-driven variability to highlight long-term changes due to factors
-    like nutrient runoff, while the 5-year rolling average shows a smoother view
-    of actual computed constituent loads.
+    like nutrient runoff, while a five-year rolling average keeps weather
+    variability in the calculation, but averages multiple years to minimize the
+    effect of extremely wet and dry years.
 
     <br/><br/> 
     <span style="display: flex; align-items: center; gap: 4px;" class="svelte-1e4tjec"><span style="display: flex; align-items: center; gap: 0px;" class="svelte-1e4tjec"><span style="width: 15px; height: 3px; display: inline-block; background: #6da34d; " class="svelte-1e4tjec"></span> 
@@ -12,25 +13,21 @@
 
       <span style="display: flex; align-items: center; gap: 0px;" class="svelte-1e4tjec"><span style="width: 15px; height: 3px; display: inline-block; background: #f1b82d; " class="svelte-1e4tjec"></span> 
         <span style="width: 10px; height: 10px; border-radius: 50%; display: inline-block; border: 3px solid #f1b82d; " class="svelte-1e4tjec"></span> 
-      </span>5-year rolling average</span>`,f=S(),m=C("p"),m.textContent=`Two line graphs showing the trends in nitrate and phosphorus loads from 1979
+      </span>5-year rolling average</span>`,f=H(),m=C("p"),m.textContent=`Two line graphs showing the trends in nitrate and phosphorus loads from 1979
     to 2022. The graphs use two metrics: flow-normalized water-quality loads
     (green line) and a 5-year rolling average (orange line). Both metrics
     illustrate the progress toward reduction targets set by the Mississippi
-    River/Gulf of Mexico Hypoxia Task Force.
-    
-    For nitrate loads, there is a
+    River/Gulf of Mexico Hypoxia Task Force. For nitrate loads, there is a
     general decline from the 1980-1996 baseline, with some fluctuations. The
     flow-normalized loads show a clearer downward trend, approaching the 25%
     reduction target by 2020, while the rolling average indicates more
-    variability.
-    
-    For phosphorus loads, the trends are less consistent. There is
+    variability. For phosphorus loads, the trends are less consistent. There is
     a slight decline from the baseline initially, but recent years show an
     increase, with both metrics indicating that the reduction targets are not
-    being met.`,c=S(),y=C("div"),y.innerHTML=`<div class="box svelte-1e4tjec"><h2 class="svelte-1e4tjec">Nitrate</h2> 
+    being met.`,c=H(),y=C("div"),y.innerHTML=`<div class="box svelte-1e4tjec"><h2 class="svelte-1e4tjec">Nitrate</h2> 
       <span class="svelte-1e4tjec">In tons</span> 
       <img src="nitrate.png"/></div> 
 
     <div class="box svelte-1e4tjec"><h2 class="svelte-1e4tjec">Phosphorus</h2> 
       <span class="svelte-1e4tjec">In tons</span> 
-      <img src="phosphorus.png"/></div>`,w=S(),o&&o.c(),j(r,"class","headline"),j(g,"class","dek"),j(m,"class","sr-only"),j(y,"class","flex svelte-1e4tjec"),j(s,"class","chart-container svelte-1e4tjec")},m(l,p){ue(t,l,p),D(l,n,p),D(l,s,p),T(s,r),T(s,h),T(s,g),T(s,f),T(s,m),T(s,c),T(s,y),T(s,w),o&&o.m(s,null),u=!0},p:x,i(l){u||(ce(t.$$.fragment,l),u=!0)},o(l){je(t.$$.fragment,l),u=!1},d(l){de(t,l),l&&L(n),l&&L(s),o&&o.d()}}}function rt(e){return new URLSearchParams(window.location.search).get(e)}function at(e){return new nt.Child({polling:500}),[rt("credit")!="false"]}class ot extends he{constructor(t){super(),fe(this,t,at,st,Y,{})}}new ot({target:document.getElementById("app")});
+      <img src="phosphorus.png"/></div>`,w=H(),o&&o.c(),j(r,"class","headline"),j(g,"class","dek"),j(m,"class","sr-only"),j(y,"class","flex svelte-1e4tjec"),j(s,"class","chart-container svelte-1e4tjec")},m(l,p){ue(t,l,p),D(l,n,p),D(l,s,p),T(s,r),T(s,h),T(s,g),T(s,f),T(s,m),T(s,c),T(s,y),T(s,w),o&&o.m(s,null),u=!0},p:x,i(l){u||(ce(t.$$.fragment,l),u=!0)},o(l){je(t.$$.fragment,l),u=!1},d(l){de(t,l),l&&L(n),l&&L(s),o&&o.d()}}}function rt(e){return new URLSearchParams(window.location.search).get(e)}function at(e){return new nt.Child({polling:500}),[rt("credit")!="false"]}class ot extends he{constructor(t){super(),fe(this,t,at,st,Y,{})}}new ot({target:document.getElementById("app")});

diff --git a/docs/assets/bundle.css b/docs/assets/bundle.css
@@ -1,1 +1,1 @@
-@import"https://fonts.googleapis.com/css2?family=Open+Sans:ital,wght@0,300..800;1,300..800&family=Oswald:wght@200..700&display=swap";code,details,embed,fieldset,form,label,legend,menu,pre,sub,summary,sup,table,tbody,td,tfoot,th,thead,tr{margin:0;padding:0;border:0;font:inherit;font-size:100%;vertical-align:baseline}blockquote,caption,dd,dl,dt,figure,h1,h2,h3,h4,h5,h6,li,ol,p,ul{margin:0;padding:0;font:inherit}blockquote,q{quotes:none}blockquote:after,blockquote:before,q:after,q:before{content:"";content:none}html{box-sizing:border-box}*,:after,:before{box-sizing:inherit}img{max-width:100%;height:auto}iframe{border:0}small,sub,sup{font-size:16px}sup{top:-.5rem}sub{bottom:-.25rem}code,kbd,pre,samp{font-size:16px}fieldset{border:0;margin:0;padding:0}optgroup{font-weight:600}input{-webkit-appearance:none;border-radius:0}:root{--font-headline: Oswald, sans-serif;--font-sans: Open Sans, sans-serif;--font-sans-mono: Open Sans, sans-serif;--font-serif: serif}body,html{margin:0;padding:0;font-family:var(--font-sans);-webkit-font-smoothing:antialiased;-moz-osx-font-smoothing:grayscale}.chart-container{width:100%}.headline{font-family:var(--font-headline);font-size:22px;font-size:1.375rem;font-size:clamp(1.375rem,1.1044342105rem + 1.3157894737vw,1.75rem);line-height:1.3;font-weight:400;color:#333335;margin-bottom:.625rem}.dek{font-family:var(--font-sans);font-size:14px;font-size:.875rem;line-height:1.5;color:#656568;margin-bottom:1.25rem}.credit{font-family:var(--font-sans);font-size:12px;font-size:.75rem;line-height:1.5;color:#656568;margin-bottom:1.25rem;text-align:right}.credit a{color:#656568}.subhead{font-family:var(--font-sans);font-size:14px;font-size:.875rem;line-height:1.15;font-weight:600;color:#333335;margin-bottom:.625rem}.label{font-family:var(--font-sans);font-size:16px;font-size:1rem;line-height:1.12;color:#333335}.axis-label{color:#333335;font-family:var(--font-sans-mono);font-size:14px;font-size:.875rem;line-height:1.43}.axis-text{color:#898989;font-family:var(--font-sans-mono);font-size:11px;font-size:.6875rem;line-height:1.18}.annotation{color:#333335;font-family:var(--font-sans);font-size:14px;font-size:.875rem;line-height:1.29}.annotation--number{color:#333335;font-family:var(--font-sans-mono);font-size:16px;font-size:1rem;line-height:1.38}.caps-label{font-family:var(--font-sans);font-size:12px;font-size:.75rem;line-height:1.1;letter-spacing:.05em;text-transform:uppercase}.sr-only{position:absolute;width:1px;height:1px;margin:-1px;overflow:hidden;padding:0;clip:rect(1px,1px,1px,1px);clip-path:inset(50%)}@media screen and (min-width: 37.438em){.is-mobile{display:none}}@media screen and (max-width: 37.3755em){.is-newsletter{display:none}}.chart-container.svelte-1e4tjec.svelte-1e4tjec{max-width:800px;width:100%;padding:.5rem}.chart-container.svelte-1e4tjec .flex.svelte-1e4tjec{display:flex;gap:1rem;flex-wrap:wrap}@media screen and (min-width: 500px){.chart-container.svelte-1e4tjec .flex.svelte-1e4tjec{flex-wrap:nowrap}}.chart-container.svelte-1e4tjec .flex .box.svelte-1e4tjec{overflow-y:hidden}.chart-container.svelte-1e4tjec .flex .box h2.svelte-1e4tjec{font-weight:700}.chart-container.svelte-1e4tjec .flex .box span.svelte-1e4tjec{font-size:.9rem;font-style:italic;color:#666}
+@import"https://fonts.googleapis.com/css2?family=Open+Sans:ital,wght@0,300..800;1,300..800&family=Oswald:wght@200..700&display=swap";code,details,embed,fieldset,form,label,legend,menu,pre,sub,summary,sup,table,tbody,td,tfoot,th,thead,tr{margin:0;padding:0;border:0;font:inherit;font-size:100%;vertical-align:baseline}blockquote,caption,dd,dl,dt,figure,h1,h2,h3,h4,h5,h6,li,ol,p,ul{margin:0;padding:0;font:inherit}blockquote,q{quotes:none}blockquote:after,blockquote:before,q:after,q:before{content:"";content:none}html{box-sizing:border-box}*,:after,:before{box-sizing:inherit}img{max-width:100%;height:auto}iframe{border:0}small,sub,sup{font-size:16px}sup{top:-.5rem}sub{bottom:-.25rem}code,kbd,pre,samp{font-size:16px}fieldset{border:0;margin:0;padding:0}optgroup{font-weight:600}input{-webkit-appearance:none;border-radius:0}:root{--font-headline: Oswald, sans-serif;--font-sans: Open Sans, sans-serif;--font-sans-mono: Open Sans, sans-serif;--font-serif: serif}body,html{margin:0;padding:0;font-family:var(--font-sans);-webkit-font-smoothing:antialiased;-moz-osx-font-smoothing:grayscale}.chart-container{width:100%}.headline{font-family:var(--font-headline);font-size:22px;font-size:1.375rem;font-size:clamp(1.375rem,1.1044342105rem + 1.3157894737vw,1.75rem);line-height:1.3;font-weight:400;color:#333335;margin-bottom:.625rem}.dek{font-family:var(--font-sans);font-size:14px;font-size:.875rem;line-height:1.5;color:#656568;margin-bottom:1.25rem}.credit{font-family:var(--font-sans);font-size:12px;font-size:.75rem;line-height:1.5;color:#656568;margin-top:.3125rem;margin-bottom:1.25rem;text-align:right}.credit a{color:#656568}.subhead{font-family:var(--font-sans);font-size:14px;font-size:.875rem;line-height:1.15;font-weight:600;color:#333335;margin-bottom:.625rem}.label{font-family:var(--font-sans);font-size:16px;font-size:1rem;line-height:1.12;color:#333335}.axis-label{color:#333335;font-family:var(--font-sans-mono);font-size:14px;font-size:.875rem;line-height:1.43}.axis-text{color:#898989;font-family:var(--font-sans-mono);font-size:11px;font-size:.6875rem;line-height:1.18}.annotation{color:#333335;font-family:var(--font-sans);font-size:14px;font-size:.875rem;line-height:1.29}.annotation--number{color:#333335;font-family:var(--font-sans-mono);font-size:16px;font-size:1rem;line-height:1.38}.caps-label{font-family:var(--font-sans);font-size:12px;font-size:.75rem;line-height:1.1;letter-spacing:.05em;text-transform:uppercase}.sr-only{position:absolute;width:1px;height:1px;margin:-1px;overflow:hidden;padding:0;clip:rect(1px,1px,1px,1px);clip-path:inset(50%)}@media screen and (min-width: 37.438em){.is-mobile{display:none}}@media screen and (max-width: 37.3755em){.is-newsletter{display:none}}.chart-container.svelte-1e4tjec.svelte-1e4tjec{max-width:800px;width:100%;padding:.5rem}.chart-container.svelte-1e4tjec .flex.svelte-1e4tjec{display:flex;gap:1rem;flex-wrap:wrap}@media screen and (min-width: 500px){.chart-container.svelte-1e4tjec .flex.svelte-1e4tjec{flex-wrap:nowrap}}.chart-container.svelte-1e4tjec .flex .box.svelte-1e4tjec{overflow-y:hidden}.chart-container.svelte-1e4tjec .flex .box h2.svelte-1e4tjec{font-weight:700}.chart-container.svelte-1e4tjec .flex .box span.svelte-1e4tjec{font-size:.9rem;font-style:italic;color:#666}

diff --git a/src/App.svelte b/src/App.svelte
@@ -26,8 +26,9 @@
     The Mississippi River/Gulf of Mexico Hypoxia Task Force uses two metrics to
     assess progress toward its reduction targets. Flow-normalization removes
     weather-driven variability to highlight long-term changes due to factors
-    like nutrient runoff, while the 5-year rolling average shows a smoother view
-    of actual computed constituent loads.
+    like nutrient runoff, while a five-year rolling average keeps weather
+    variability in the calculation, but averages multiple years to minimize the
+    effect of extremely wet and dry years.
 
     <br /><br />
     <span style="display: flex; align-items: center; gap: 4px;">
@@ -55,15 +56,11 @@
     to 2022. The graphs use two metrics: flow-normalized water-quality loads
     (green line) and a 5-year rolling average (orange line). Both metrics
     illustrate the progress toward reduction targets set by the Mississippi
-    River/Gulf of Mexico Hypoxia Task Force.
-    
-    For nitrate loads, there is a
+    River/Gulf of Mexico Hypoxia Task Force. For nitrate loads, there is a
     general decline from the 1980-1996 baseline, with some fluctuations. The
     flow-normalized loads show a clearer downward trend, approaching the 25%
     reduction target by 2020, while the rolling average indicates more
-    variability.
-    
-    For phosphorus loads, the trends are less consistent. There is
+    variability. For phosphorus loads, the trends are less consistent. There is
     a slight decline from the baseline initially, but recent years show an
     increase, with both metrics indicating that the reduction targets are not
     being met.
